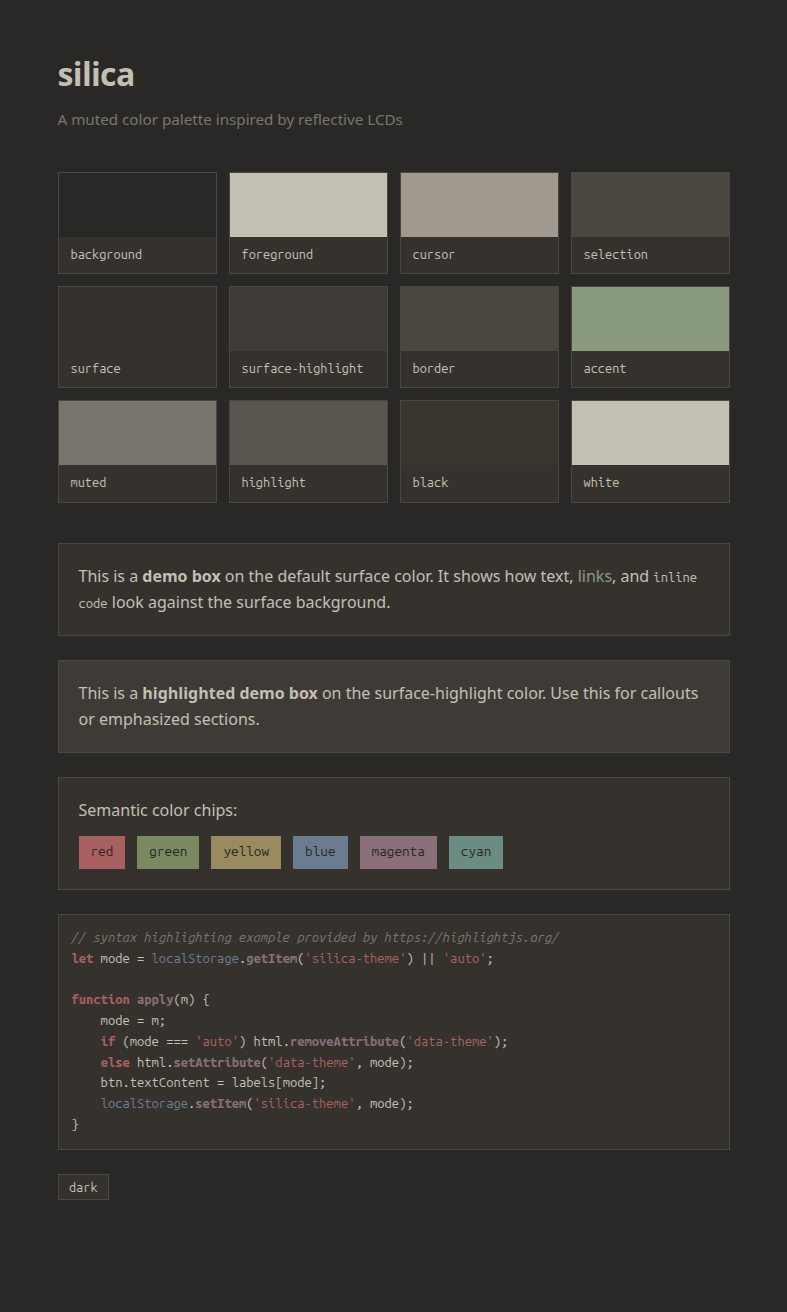
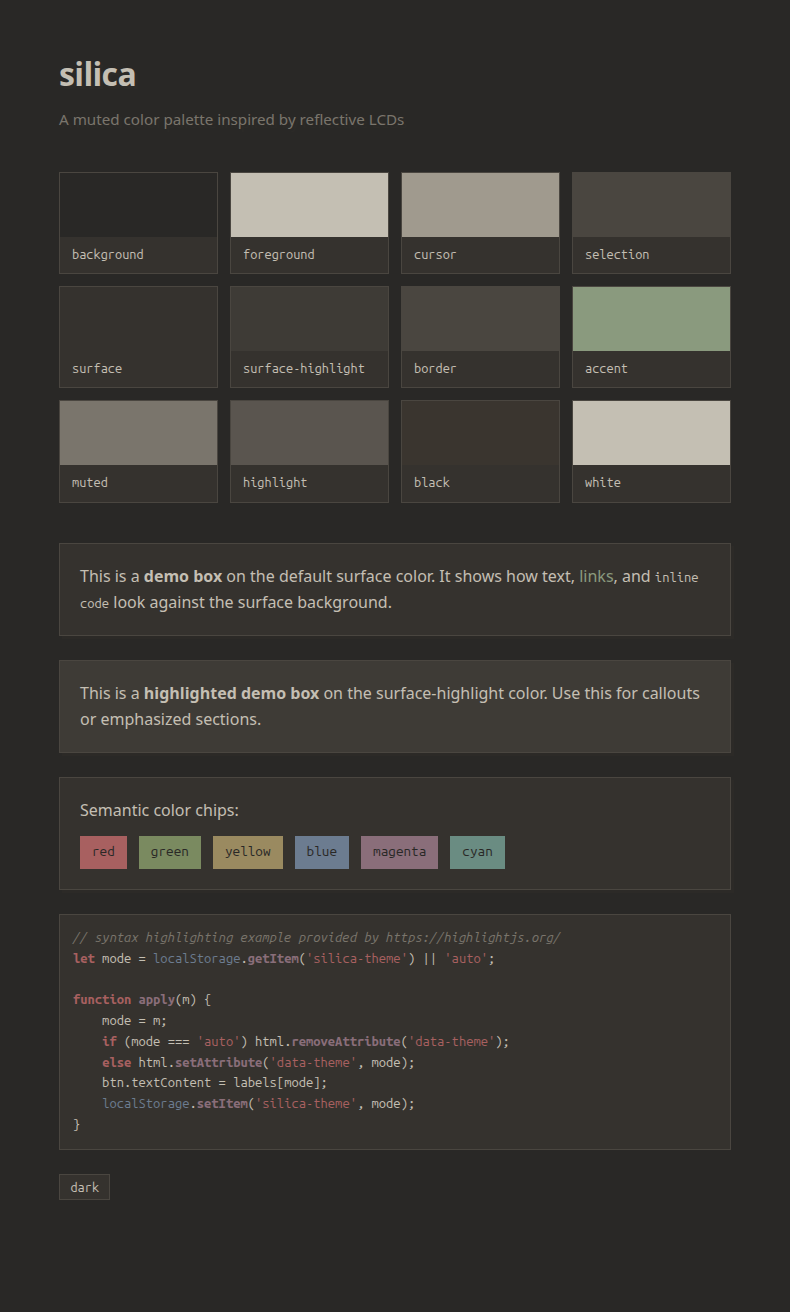
Harmonize lowercase name and update screenshots

diff --git a/README.md b/README.md
@@ -1,4 +1,4 @@
-# Silica
+# silica
 
 A soft, muted color palette inspired by reflective LCDs and warm off-white UI.
 
@@ -19,8 +19,8 @@ Open `css/index.html` in a browser to preview the palette.
 
 ## Previews
 
-![Silica — light variant](screenshots/screenshot-light.png)
-![Silica — dark variant](screenshots/screenshot-dark.png)
+![silica — light variant](screenshots/screenshot-light.png)
+![silica — dark variant](screenshots/screenshot-dark.png)
 
 ## AI Usage
 

diff --git a/AGENTS.md b/AGENTS.md
@@ -30,7 +30,7 @@ When changing the palette, update these directories:
 
 ## Naming
 
-"Silica" — an understated, single-word name evoking sand, crystal, and
+"silica" — an understated, single-word name evoking sand, crystal, and
 matte surfaces, mapping to the reflective, non-emissive LCD aesthetic.
 
 ## Constraints
